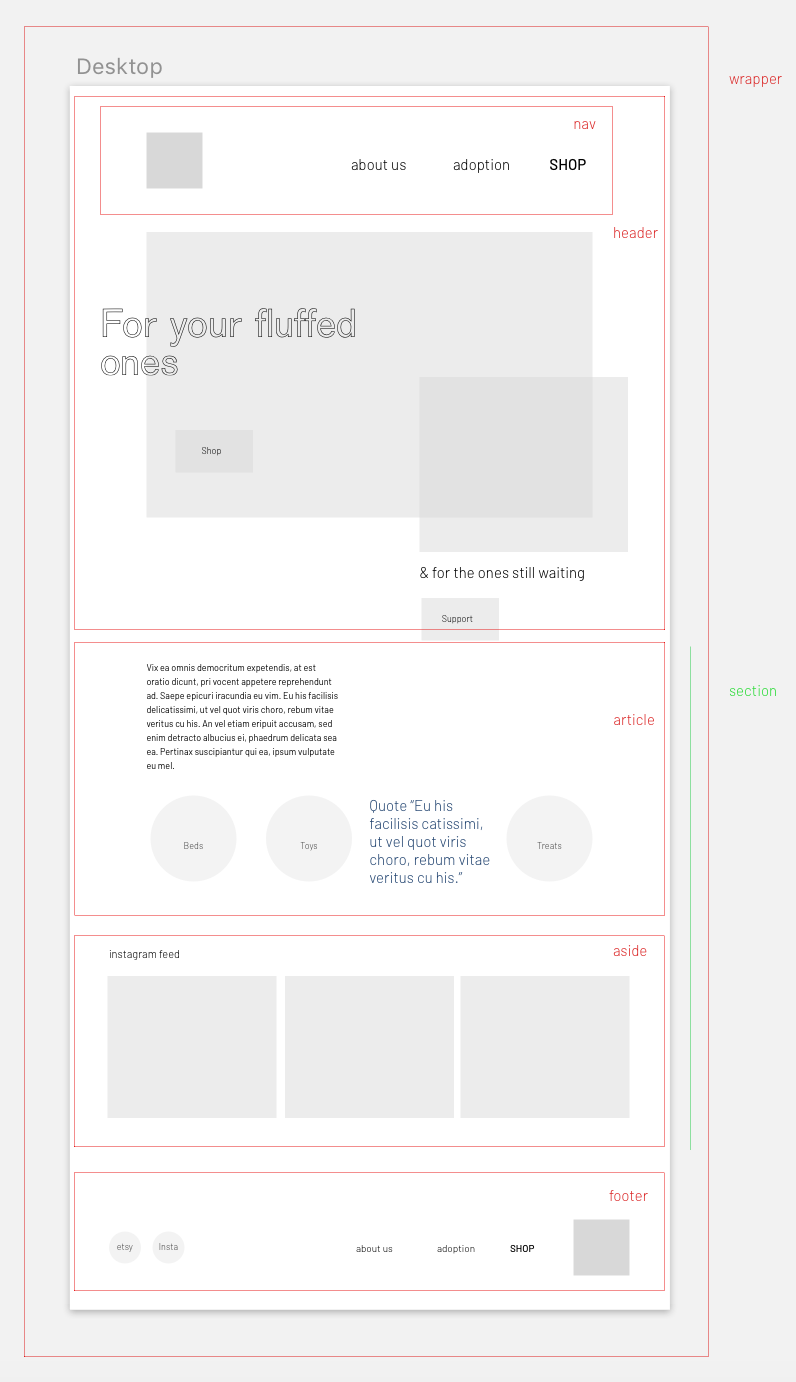
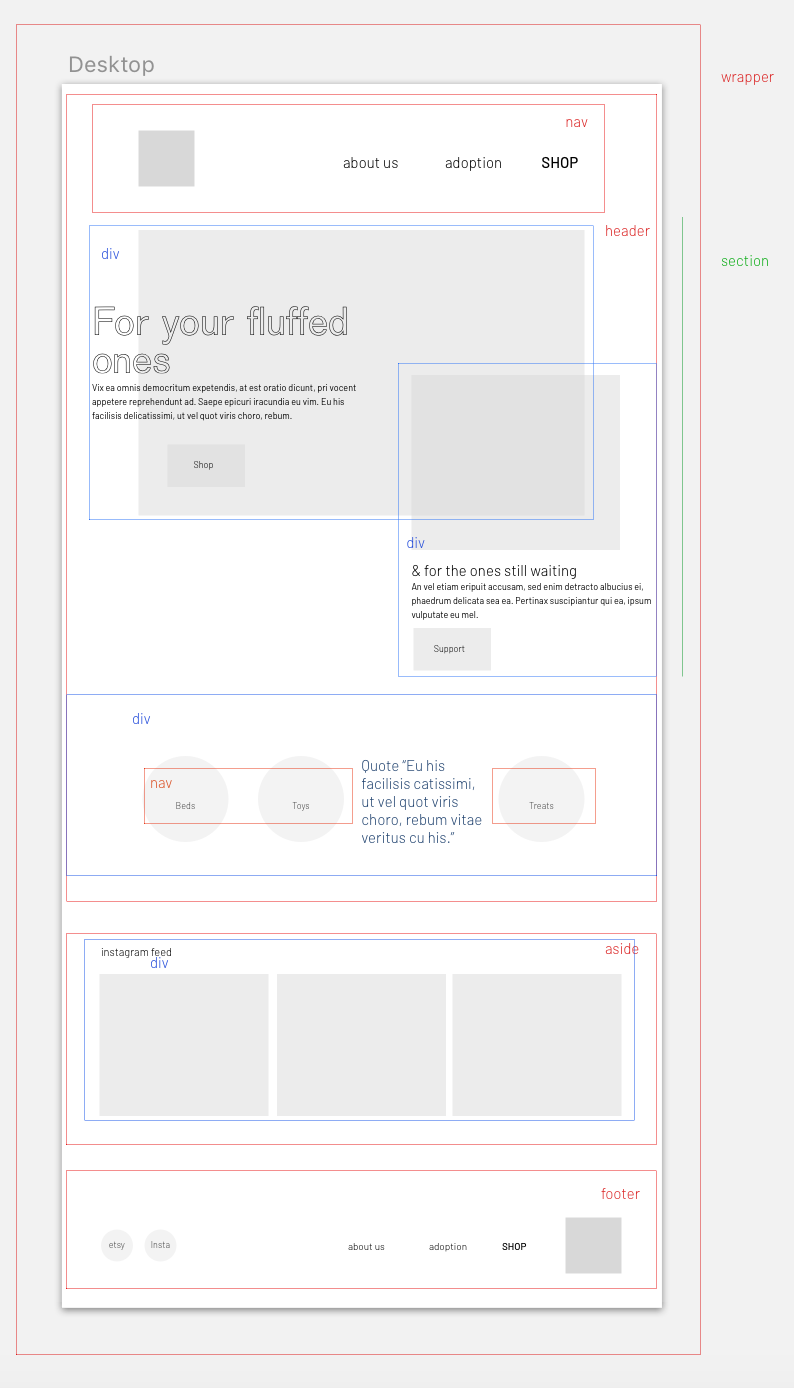
updated png

diff --git a/unit_5/index.html b/unit_5/index.html
@@ -1,0 +1,65 @@
+<!DOCTYPE html>
+<html>
+<head>
+	<title>Stache and Belle</title>
+	<link rel="stylesheet" href="CSS/style.css">
+</head>
+<body>
+<div class="wrapper">
+	<header><h1>For your fluffed ones</h1>
+
+		<p id="slogan">Southern hospitality for our life companions.</p>
+
+		<img src="images/lauren-kay-632247-unsplash.jpg" alt="Orange tabby sleeping on the bed" title="Custom pet bed for cats and dogs">
+
+		<p class="content">Stache and Belle is about love. Our pets give us what they can and they don't even ask us to return it, but we always do. A custom pet bed is only a small way we can return that attention and a sleeping pet is probably the cuteset thing you've ever seen, so let's make that happen.</p>
+
+		<a id="main-CTA" href="link-shop">Shop</a>
+
+
+		<br>
+
+		<h2>& for the ones still waiting</h2>
+
+		<p>While we have the love of our lives curled up next to us right now, there are plenty of those loves that are still looking for their companion. Shelters across the country are doing what they can to provide the connection point, but it's still not a great place to wait. Every purchase provides a bed to a shelter pet still waiting for love.</p>
+
+			<a id="second-CTA" href="link-shelter-page">Support</a>
+
+	</header>
+
+	<section>
+		<article class="content">
+			<h3>Peace and comfort are what we seek for our furry loved ones and these handcrafted beds help accomplish that state.</h3>
+			<ul>
+				<li>Organic cotton</li>
+				<li>Waterproof duck canvas bottom piece</li>
+				<li>Custom tags and stamps</li>
+				<li>Machine washable</li>
+			</ul>
+
+			<a class="circle-CTA" href="link-Beds">Beds</a>
+			<br>
+			<a class="circle-CTA" href="link-Toys">Toys</a>
+
+			<p class="quote">"Teddy is my foster fail (I adopted one of my fosters) and I've never looked back. He has several spots around the house that need a soft place for him to nap and his favorite bed is the SunSpotter."</p>
+
+			<a class="circle-CTA" href="link-Treats">Treats</a>
+
+<aside class="Instagram">
+			<!-- Instagram feed of clients -->
+			<h4>Living the Life</h4>
+				<img src="images/Teddyfluffybed.png" alt="Gray and white cat sleeping on pet bed" title="Teddy approves of his Stache & Belle custom pet bed">
+				<img src="images/Teddysnuggle.png" alt="Gray and white cat cuddling with guardian" title="Teddy is so grateful mom got him an Stache & Belle custom pet bed">
+				<img src="images/Tiffanyredbed.png" alt="Russian blue cat sleeping on red pet bed" title="Custom pet bed for cats and dogs">
+				<img src="images/Twocatsonebed.png" alt="Two cats sleeping on a bed" title="Custom pet bed for cats and dogs">
+</aside>
+	</section>
+
+	<footer>	
+		<p class="footer-links"> about us adopt shop</p>
+
+		<a href="mailto:fortner.laura@gmail.com">Contact Me</a>
+	</footer>
+</div>
+</body>
+</html>

diff --git a/unit_5/CSS/style.css b/unit_5/CSS/style.css
@@ -1,0 +1,121 @@
+
+/*
+
+try:;
+margin
+padding
+border
+width
+text-align
+
+body {
+    background-color: lightblue;
+}
+h1 {
+    color: white;
+    text-align: center;
+}
+p {
+    font-family: verdana;
+    font-size: 20px;
+
+    body{
+	background-image: url(../images/lauren-kay-632247-unsplash.jpg);
+}
+}
+	color: #767676;
+	font-family: 'Work Sans', 'Helvetica', sans-serif;
+	font-weight: 300;
+	font-style: outline;
+	font-size: 54px;
+	text-align: center;	
+
+
+*/
+
+
+<style>
+@import url('http://fonts.googleapis.com/css?family=Unna');
+@import url('http://fonts.googleapis.com/css?family=Work+Sans:300');
+</style>
+
+
+h1{
+	color: #21436F;
+	font-family: 'Work Sans', 'Helvetica', sans-serif;
+	font-weight: 300;
+	font-size: 36px;
+	text-align: left;
+}
+
+#main-CTA{
+	color: black;
+	font-family: 'Work Sans', 'Helvetica', sans-serif;
+	font-size: 24px;
+	text-align: center;
+	text-shadow: .5px 3px 4px #242424;
+}
+
+#slogan{
+	color: #21436F;
+	font-family: 'Unna', serif;
+	font-size: 24px;
+	text-align: center;
+	font-style: italic;
+}
+
+h2{
+	color: #21436F;
+	font-family: 'Work Sans', 'Helvetica', sans-serif;
+	font-weight: 300;
+	font-size: 36px;
+	text-align: left;
+}
+
+p{
+	color: #767676;
+	font-family: 'Unna', Georgia, serif;
+	font-size: 18px;
+	line-height: 28px;
+}
+
+h3{
+	color: #21436F;
+	font-family: 'Work Sans', 'Helvetica', sans-serif;
+	font-weight: 300;
+	font-size: 22px;
+	text-align: left;
+}
+
+h4{
+	color: #21436F;
+	font-family: 'Work Sans', 'Helvetica', sans-serif;
+	font-weight: 600;
+	font-size: 22px;
+	text-transform: uppercase;
+}
+
+ul{
+	color: #767676;
+	font-family: 'Work Sans', 'Helvetica', sans-serif;
+	font-weight: 300;
+	font-size: 18px;
+	text-align: center;
+    list-style-type: none;	
+}
+
+
+.quote{
+	color:red;
+	font-family: 'Unna', sans-serif;
+	font-size: 1em;
+	line-height: 1.5em;	
+}
+
+.circle-CTA{
+	color:#21436F;
+	font-family: 'Unna', sans-serif;
+	font-size: 1em;
+	line-height: 1.5em;
+	text-decoration: underline;
+}
